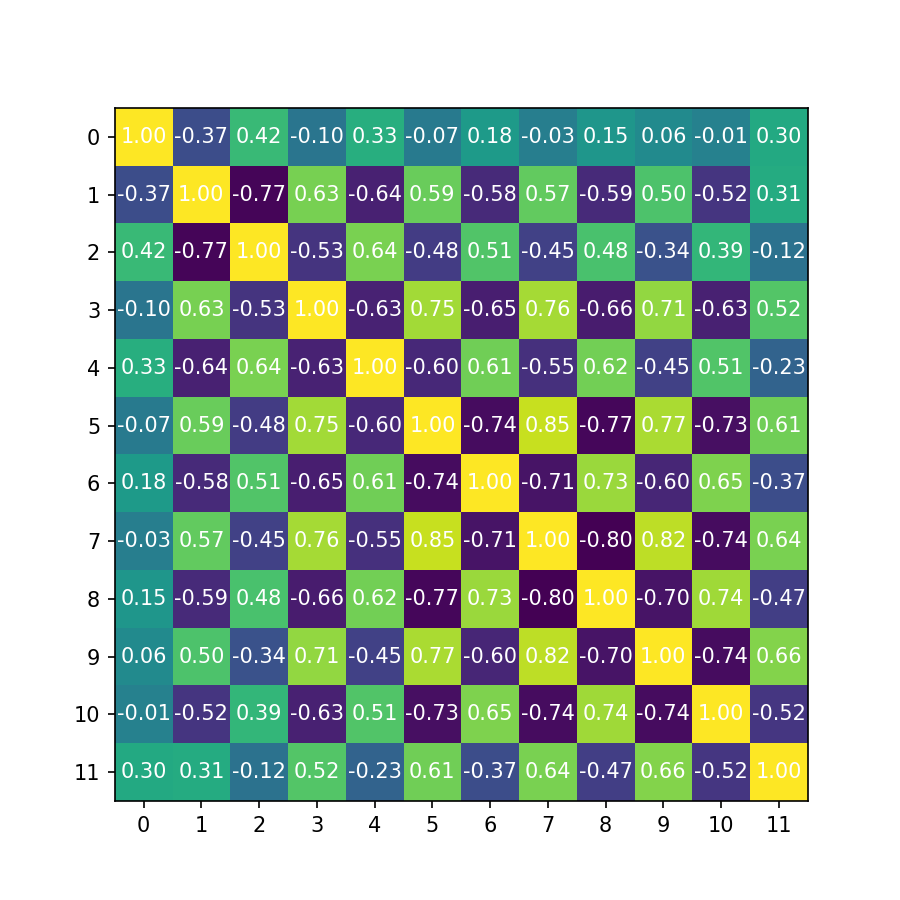
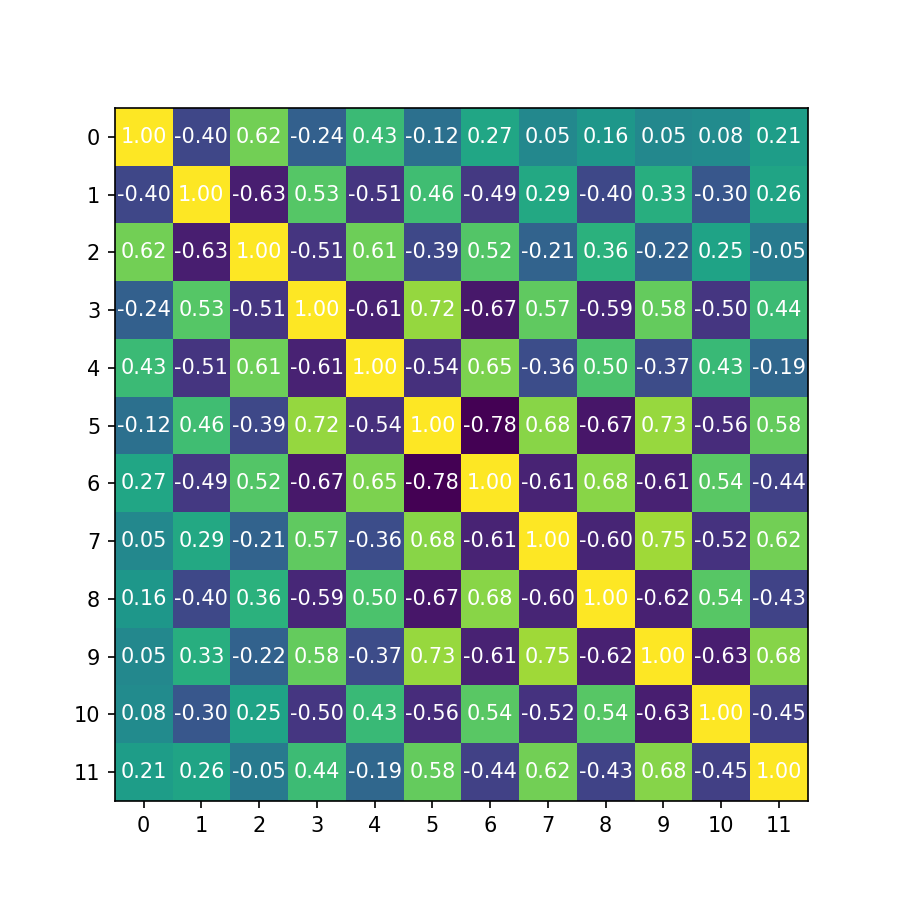
m

diff --git a/python/SpinCorrelationSolver.py b/python/SpinCorrelationSolver.py
@@ -73,6 +73,23 @@ class SpinCorrelationSolver(ABC):
             self.hamiltonian, first_n=1, compute_eigenvectors=False, matrix_free=False
         ).eigenvalues[0]
 
+    def exact_corr_mat(self) -> np.ndarray:
+        psi = nk.exact.lanczos_ed(
+            self.hamiltonian, first_n=1, compute_eigenvectors=True
+        ).eigenvectors[0]
+
+        psi /= np.linalg.norm(psi)
+
+        corr_mat = np.zeros((self.n_spins, self.n_spins), dtype=np.float32)
+        for i in range(self.n_spins):
+            for j in range(self.n_spins):
+                corr_mat[i, j] = np.vdot(
+                    psi,
+                    self.corr_operators["{:d}-{:d}".format(i, j)].to_sparse().dot(psi),
+                )
+
+        return corr_mat
+
     def solve(self, n_iter: int = 800) -> None:
         comm = MPI.COMM_WORLD
         rank = comm.Get_rank()
@@ -86,6 +103,7 @@ class SpinCorrelationSolver(ABC):
         variances = deque()
         acceptances = deque()
         correlations = deque()
+        correlations_variance = deque()
 
         zero_steps = 0
 
@@ -110,7 +128,10 @@ class SpinCorrelationSolver(ABC):
                 zero_steps = 0
 
             acceptances.append(self.sampler.acceptance)
-            correlations.append(self._compute_correlations())
+
+            corrs = self._compute_correlations()
+            correlations.append(corrs[0])
+            correlations_variance.append(corrs[1])
 
             if zero_steps >= early_stopping:
                 if rank == 0:
@@ -132,6 +153,7 @@ class SpinCorrelationSolver(ABC):
         ).drop_duplicates()
 
         self.correlations = list(correlations)
+        self.correlations_variance = list(correlations_variance)
 
     def get_report(self) -> pd.DataFrame:
         if self.report is None:
@@ -145,14 +167,22 @@ class SpinCorrelationSolver(ABC):
 
         return self.correlations
 
+    def get_correlations_variances(self) -> List[np.ndarray]:
+        if self.report is None:
+            raise ValueError("You must solve the problem first!")
+
+        return self.correlations_variance
+
     def _compute_correlations(self) -> np.ndarray:
         corrs = self.vmc.estimate(self.corr_operators)
         corr_mat = np.zeros(shape=(self.n_spins, self.n_spins), dtype=np.float64)
+        var_mat = np.zeros(shape=(self.n_spins, self.n_spins), dtype=np.float64)
         for i in range(self.n_spins):
             for j in range(self.n_spins):
                 corr_mat[i, j] = np.real(corrs["{:d}-{:d}".format(i, j)].mean)
+                var_mat[i, j] = np.real(corrs["{:d}-{:d}".format(i, j)].variance)
 
-        return corr_mat
+        return corr_mat, var_mat
 
     def get_sample(self) -> np.ndarray:
         if self.report is None:

diff --git a/main_ising.py b/main_ising.py
@@ -43,6 +43,29 @@ if __name__ == "__main__":
 
     exact_prefix.joinpath("ground_state.txt").write_text(str(exact_solution))
 
+    exact_corr_mat = solver.exact_corr_mat()
+    f: plt.Figure = plt.figure(figsize=(6, 6))
+    ax: plt.Axes = f.add_subplot()
+    ax.imshow(exact_corr_mat)
+    ax.set_xticks(np.arange(args.spins))
+    ax.set_yticks(np.arange(args.spins))
+    for k in range(args.spins):
+        for j in range(args.spins):
+            ax.text(
+                j,
+                k,
+                "{:.2f}".format(exact_corr_mat[k, j]),
+                ha="center",
+                va="center",
+                color="w",
+            )
+
+    f.savefig(
+        str(exact_prefix.joinpath("exact_corr_mat.png").absolute()),
+        dpi=150,
+    )
+    plt.close(f)
+
     solver.solve()
 
     solver.get_report().to_csv(
@@ -77,6 +100,39 @@ if __name__ == "__main__":
 
         f.savefig(
             str(corr_prefix.joinpath("corr_plot_step_{:d}.png".format(i)).absolute()),
+            dpi=150,
+        )
+        plt.close(f)
+
+    for i, corr_mat in enumerate(solver.get_correlations_variances()):
+        np.savetxt(
+            fname=str(
+                corr_prefix.joinpath("corr_var_step_{:d}.txt".format(i)).absolute()
+            ),
+            fmt="%.4f",
+            X=corr_mat,
+        )
+
+        f: plt.Figure = plt.figure(figsize=(6, 6))
+        ax: plt.Axes = f.add_subplot()
+        ax.imshow(corr_mat)
+        ax.set_xticks(np.arange(args.spins))
+        ax.set_yticks(np.arange(args.spins))
+        for k in range(args.spins):
+            for j in range(args.spins):
+                ax.text(
+                    j,
+                    k,
+                    "{:.2f}".format(corr_mat[k, j]),
+                    ha="center",
+                    va="center",
+                    color="w",
+                )
+
+        f.savefig(
+            str(
+                corr_prefix.joinpath("corr_var_plot_step_{:d}.png".format(i)).absolute()
+            ),
             dpi=150,
         )
         plt.close(f)
